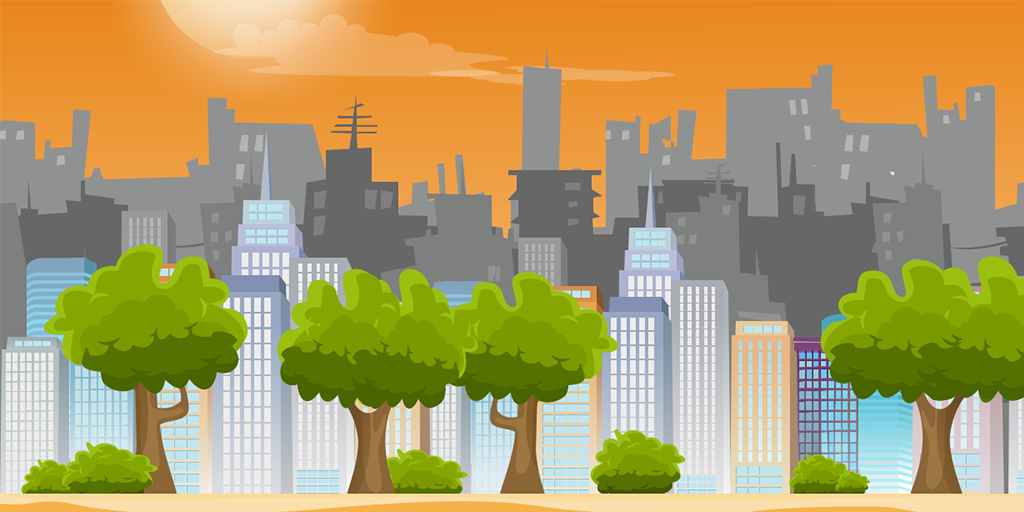
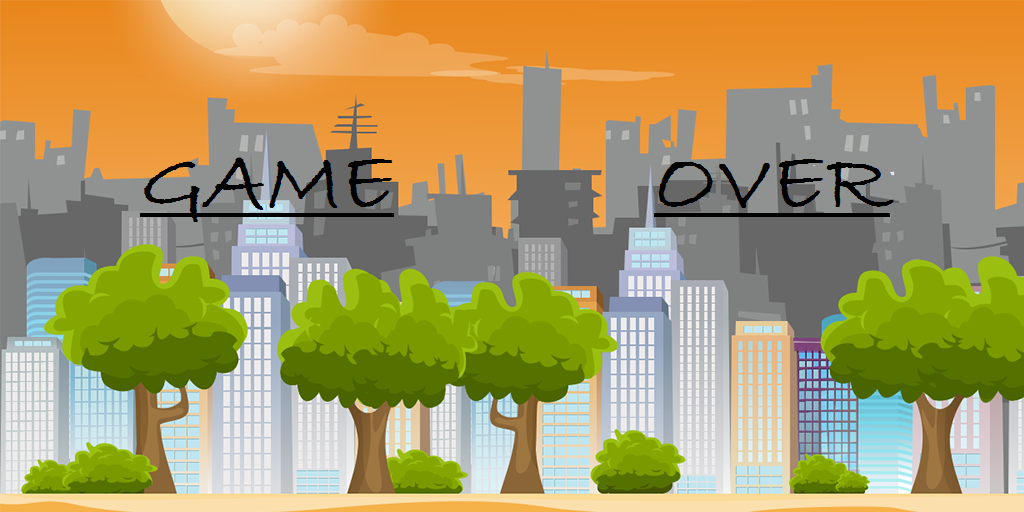
Changed game over page

Changed region(s): [[0.625, 0.3125, 0.875, 0.4375], [0.125, 0.3125, 0.375, 0.4375], [0.1562, 0.3125, 0.1875, 0.3438]]

diff --git a/game-over.css b/game-over.css
@@ -1,33 +1,62 @@
-#game-container {
-	width: 1024px;
+@font-face {
+	font-family: myFont;
+	src: url("./bradley-hand-itc.ttf");
+	}
+
+#end-game-container {
+   	width: 1024px;
     height: 512px;
     margin: 0px auto;
 }
 
 #background {
     border: 2px solid black;
-    filter: brightness(20%);
     position: absolute;
     z-index: 3;
 }
 
-#game-over {
+#ninja {
+    position: relative;
     z-index: 10;
-    width: 400px;
-    margin-top: 120px;
-    margin-left: 300px;
+    width: 200px;
+    height: 200px;
+    padding-left: 420px;
+    padding-top: 130px;
 }
 
-#start-game {
-    z-index: 20;
+#play-button {
+    font-size: 30px;
+    font-family: myFont;
+    font-weight: bold;
+    font: black;
+    text-align: center;
+    cursor: pointer;
     position: relative;
-    padding: 400px;
+    z-index: 15;
+    display: block;
+    padding: 5px;
+    margin-left: 430px;
+    margin-right: 400px;
+    margin-top: 10px;
 }
 
-#start-img{
-    width:180px;
+a {
+    border: 2px solid black;
+    border-radius: 15px;
+    color: black;
+    background: #E8871D;
+    text-decoration: none;
+} 
+
+a:hover {
+    color: black;
+    background: #F0AA5E;
 }
 
-img {
-    position: relative;
+a:active {
+    color: black;
+}
+
+a:visited {
+     color:black;
 }

diff --git a/game-over-page.html b/game-over-page.html
@@ -4,16 +4,15 @@
 <head>
 	<meta charset="UTF-8">
 	<title>Game over</title>
-	 <link rel="stylesheet" href="./game-over.css">
+	<link rel="stylesheet" href="./game-over.css">
 </head>
 
 <body>
-    <div id="game-container">
-	    <img src="./images/game-over-background.png" id="background" alt="Game Over" >
-	    <img src="./images/gameover.png" id = 'game-over' alt="Game Over" >
-		<a href="main.html" id="start-game"><img src="./images/start-game.png" id = "start-img" alt="Start Game"></a>
-		
-    </div>
-	
+	<div id="end-game-container">
+		<img src="./images/game-over-background.png" alt="game-over-background" id="background">
+		<img src="./images/ninja-ico-dead.png" alt="ninja-ico" id="ninja">
+		<a href="./main.html" id="play-button">PLAY AGAIN</a>
+	</div>
 </body>
+
 </html>

diff --git a/instructions.html b/instructions.html
@@ -17,7 +17,6 @@
              <div class="keys"><span id="right-key">&#8594</span> Go ahead </div>
              <div class="keys"><span id="left-key">&#8592</span> Go back </div>
              <div class="keys"><span id="jump-key">&#8593</span> Jump </div>
-             <div class="keys"><span id="music-key">M</span> Music On/Off </div>
             </p>
             <h1>Goal</h1>
             <p> You need to jump as much obstacles as you can! </p>

diff --git a/instructions.css b/instructions.css
@@ -61,11 +61,6 @@ span {
     margin-right: 10px;
 }
 
-#music-key {
-    padding-right: 2px;
-    padding-left: 2px;
-}
-
 #back {
     position: relative;
     z-index: 15;
@@ -73,7 +68,6 @@ span {
     padding-left: 280px;
     margin-top: 10px;
 }
-
 
 a:hover {
     color: #804000;
